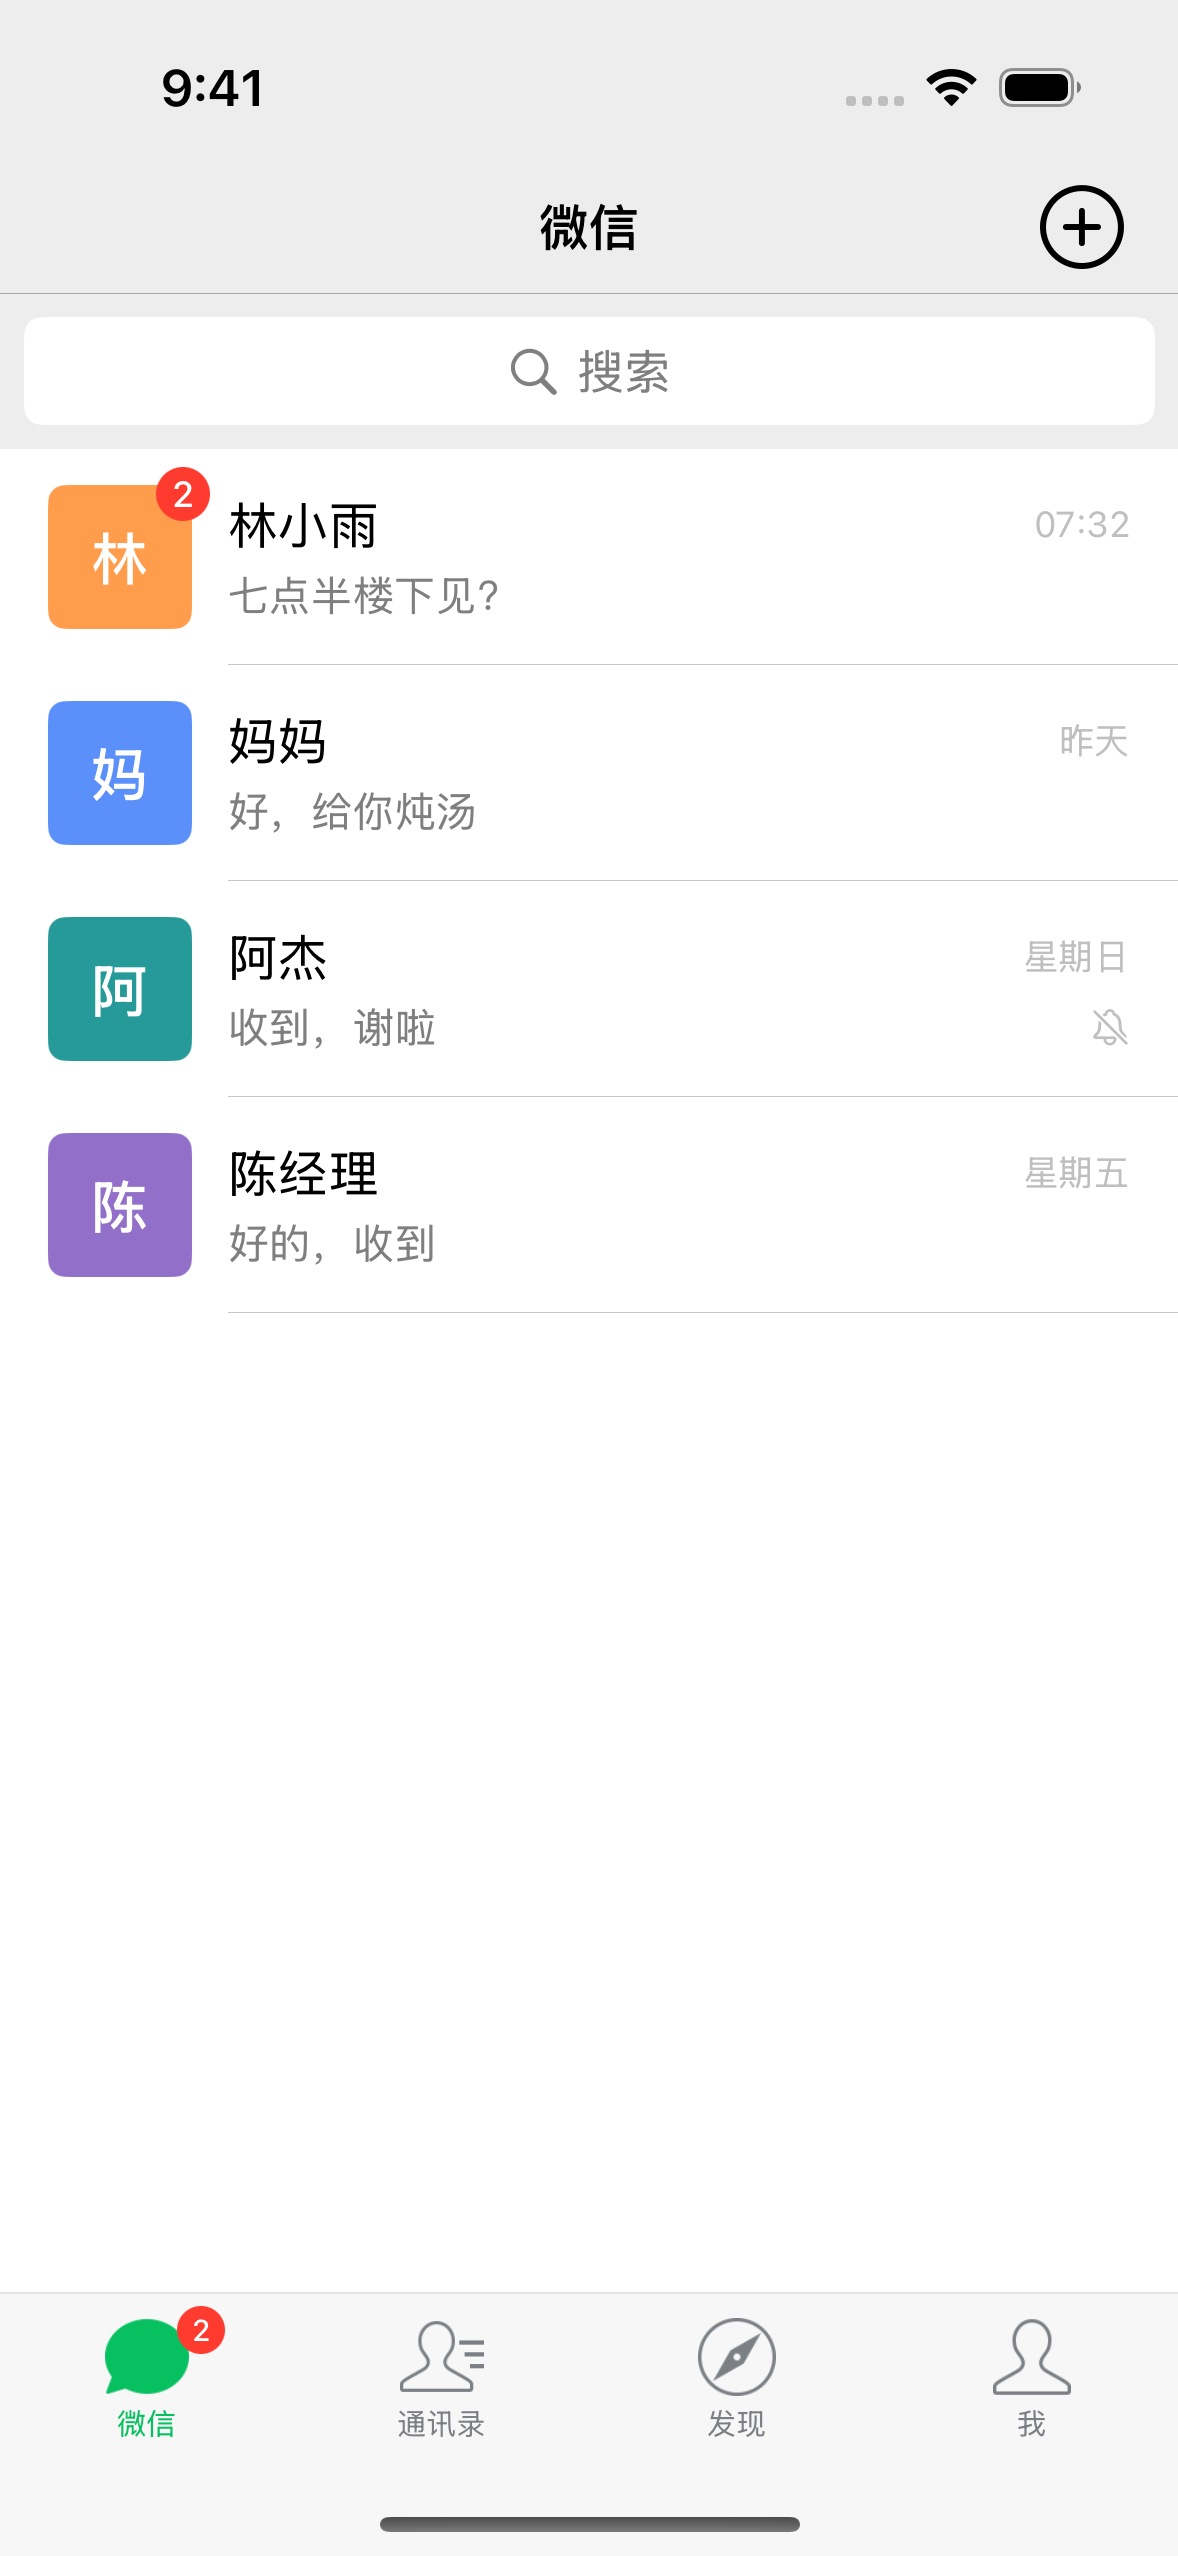
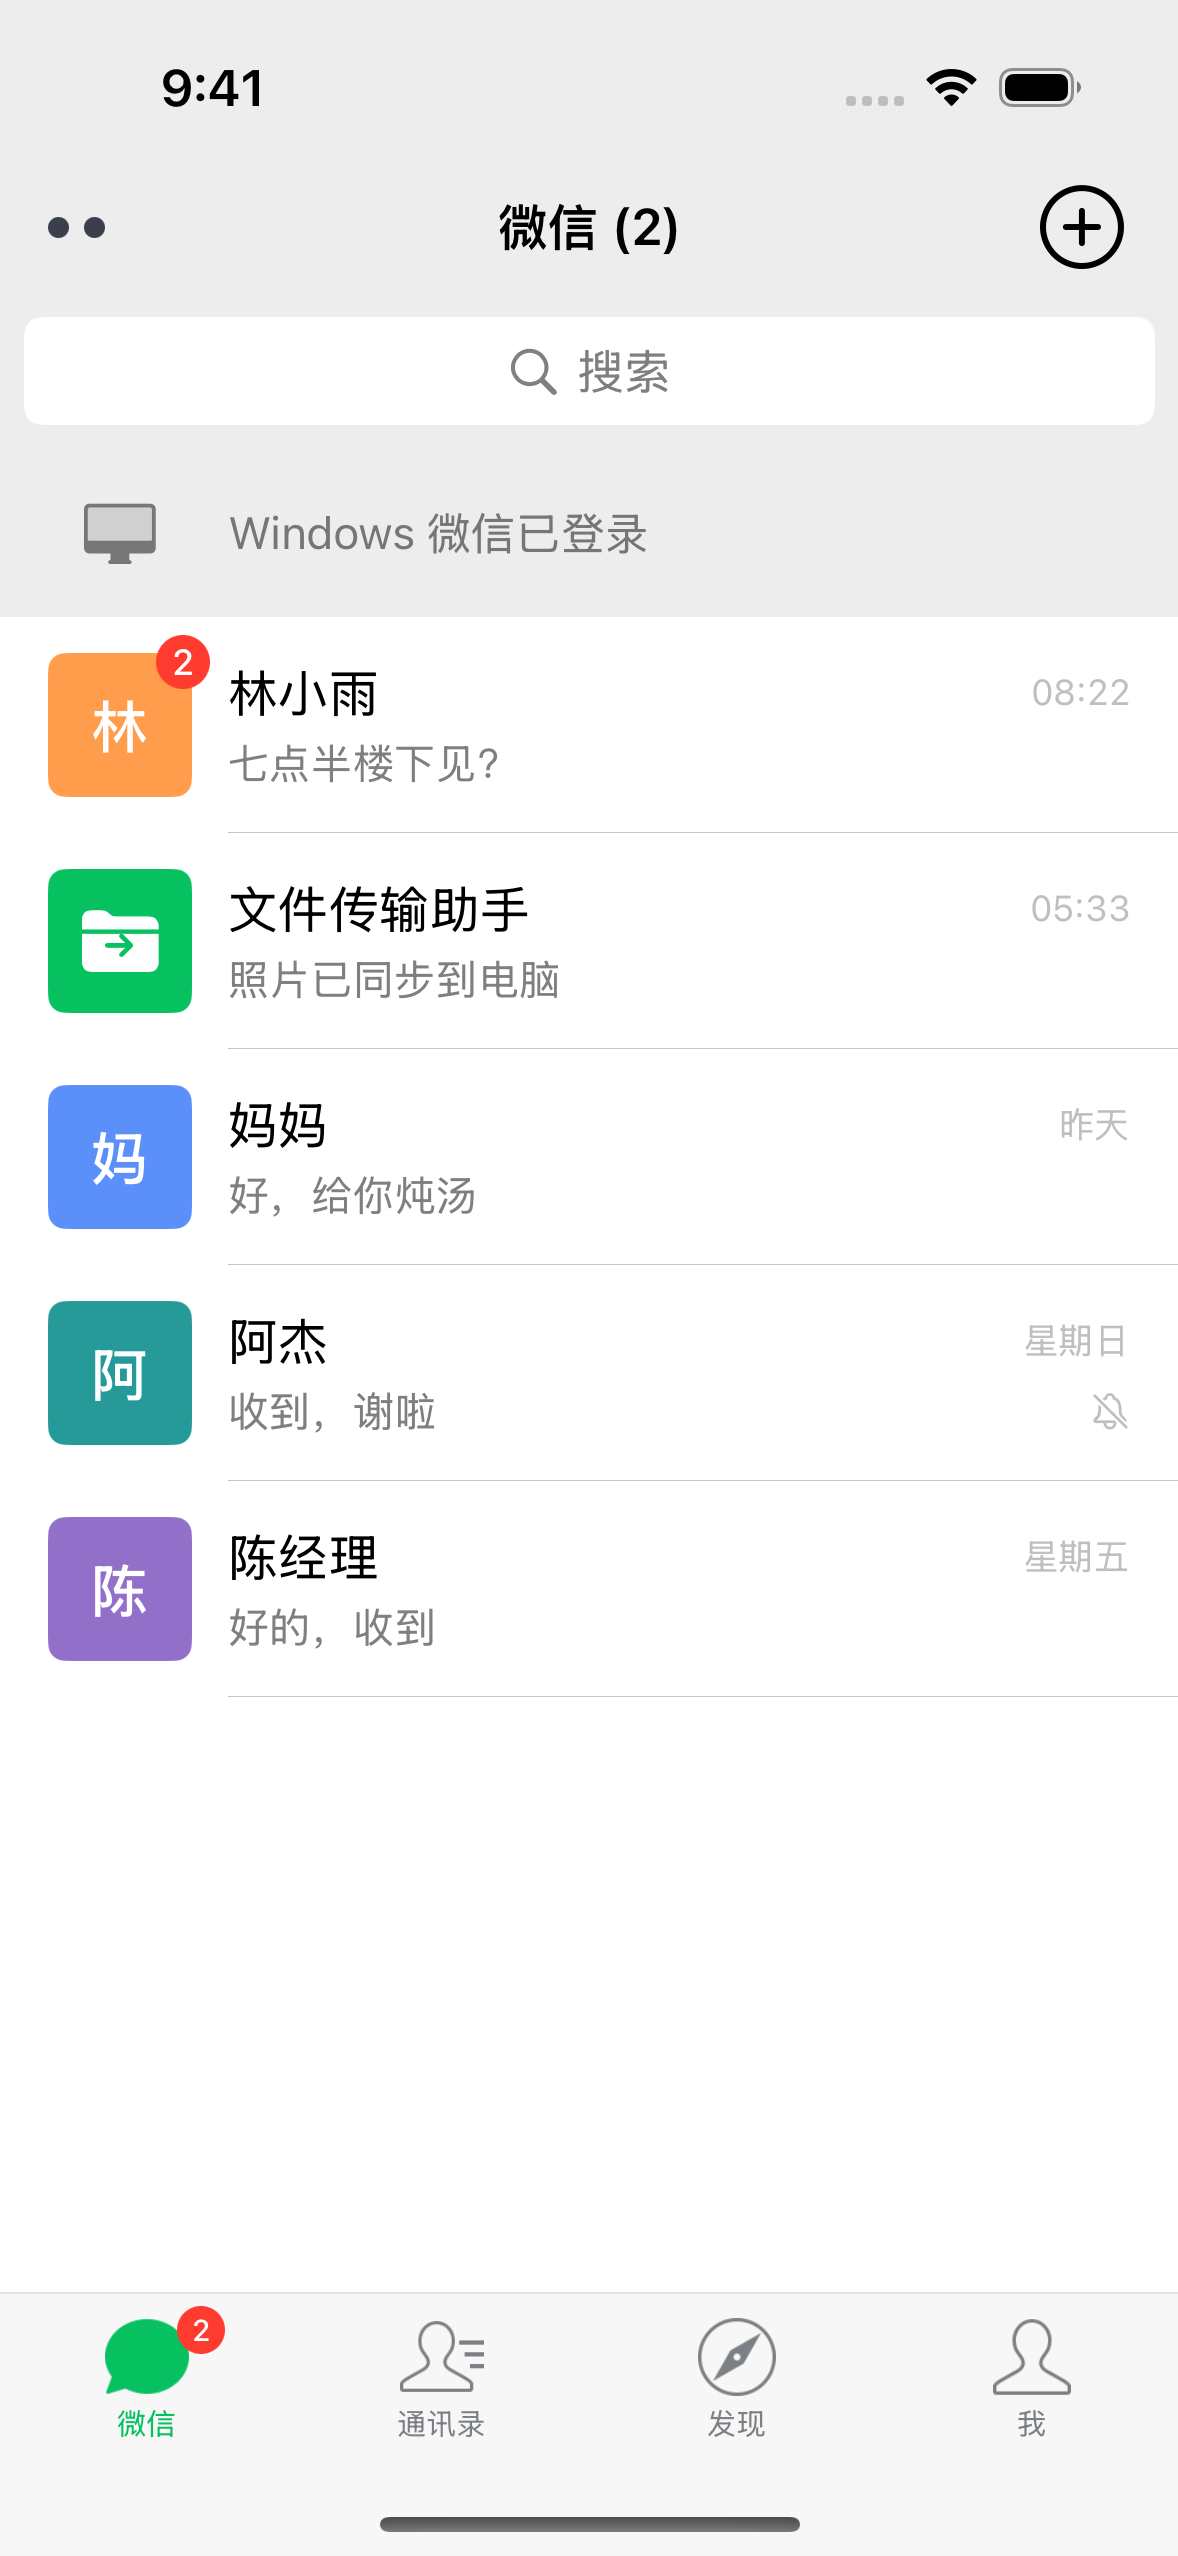
Update 1.2.0 screenshots and verification results

diff --git a/docs/design-qa.md b/docs/design-qa.md
@@ -11,7 +11,7 @@
 | 我 | 二维码图标与昵称同行，微信号行右侧箭头；“＋ 状态”胶囊；收藏、朋友圈、作品、小店与卡包、表情 | 重排资料区；新增“作品”，“卡包”改为“小店与卡包” |
 | 聊天 | 返回箭头旁灰色胶囊显示其他会话未读数，无“微信”文字；位置消息为白色卡片 + 地图 + 绿色定位针 | 自定义返回按钮（保留右滑返回）；新增位置消息：＋ → 位置输入名称地址，系统地理编码生成地图快照，点击用系统地图打开 |
 
-1.2.0 新增 UI 测试 `testLocationMessageAndBackButton`，并在主页面测试中检查登录提示、文件传输助手、企业微信联系人、附近的人和小店与卡包。本轮修改在 Windows 上完成，尚需通过云端工作流编译、运行测试并更新截图。
+1.2.0 新增 UI 测试 `testLocationMessageAndBackButton`，并在主页面测试中检查登录提示、文件传输助手、企业微信联系人、附近的人和小店与卡包。[1.2.0 构建与测试](https://github.com/Siper99/wechat-local-demo/actions/runs/35705109939)：Release IPA 构建成功，iPhone 16 / iOS 18.5 模拟器 4 项 UI 测试全部通过，截图已更新到 `docs/screenshots`（新增 [位置消息](screenshots/13-location.png)）。地址无法地理编码时（如测试中的 “Test Place”），位置卡片显示空白地图底色和定位针。
 
 ---
 
